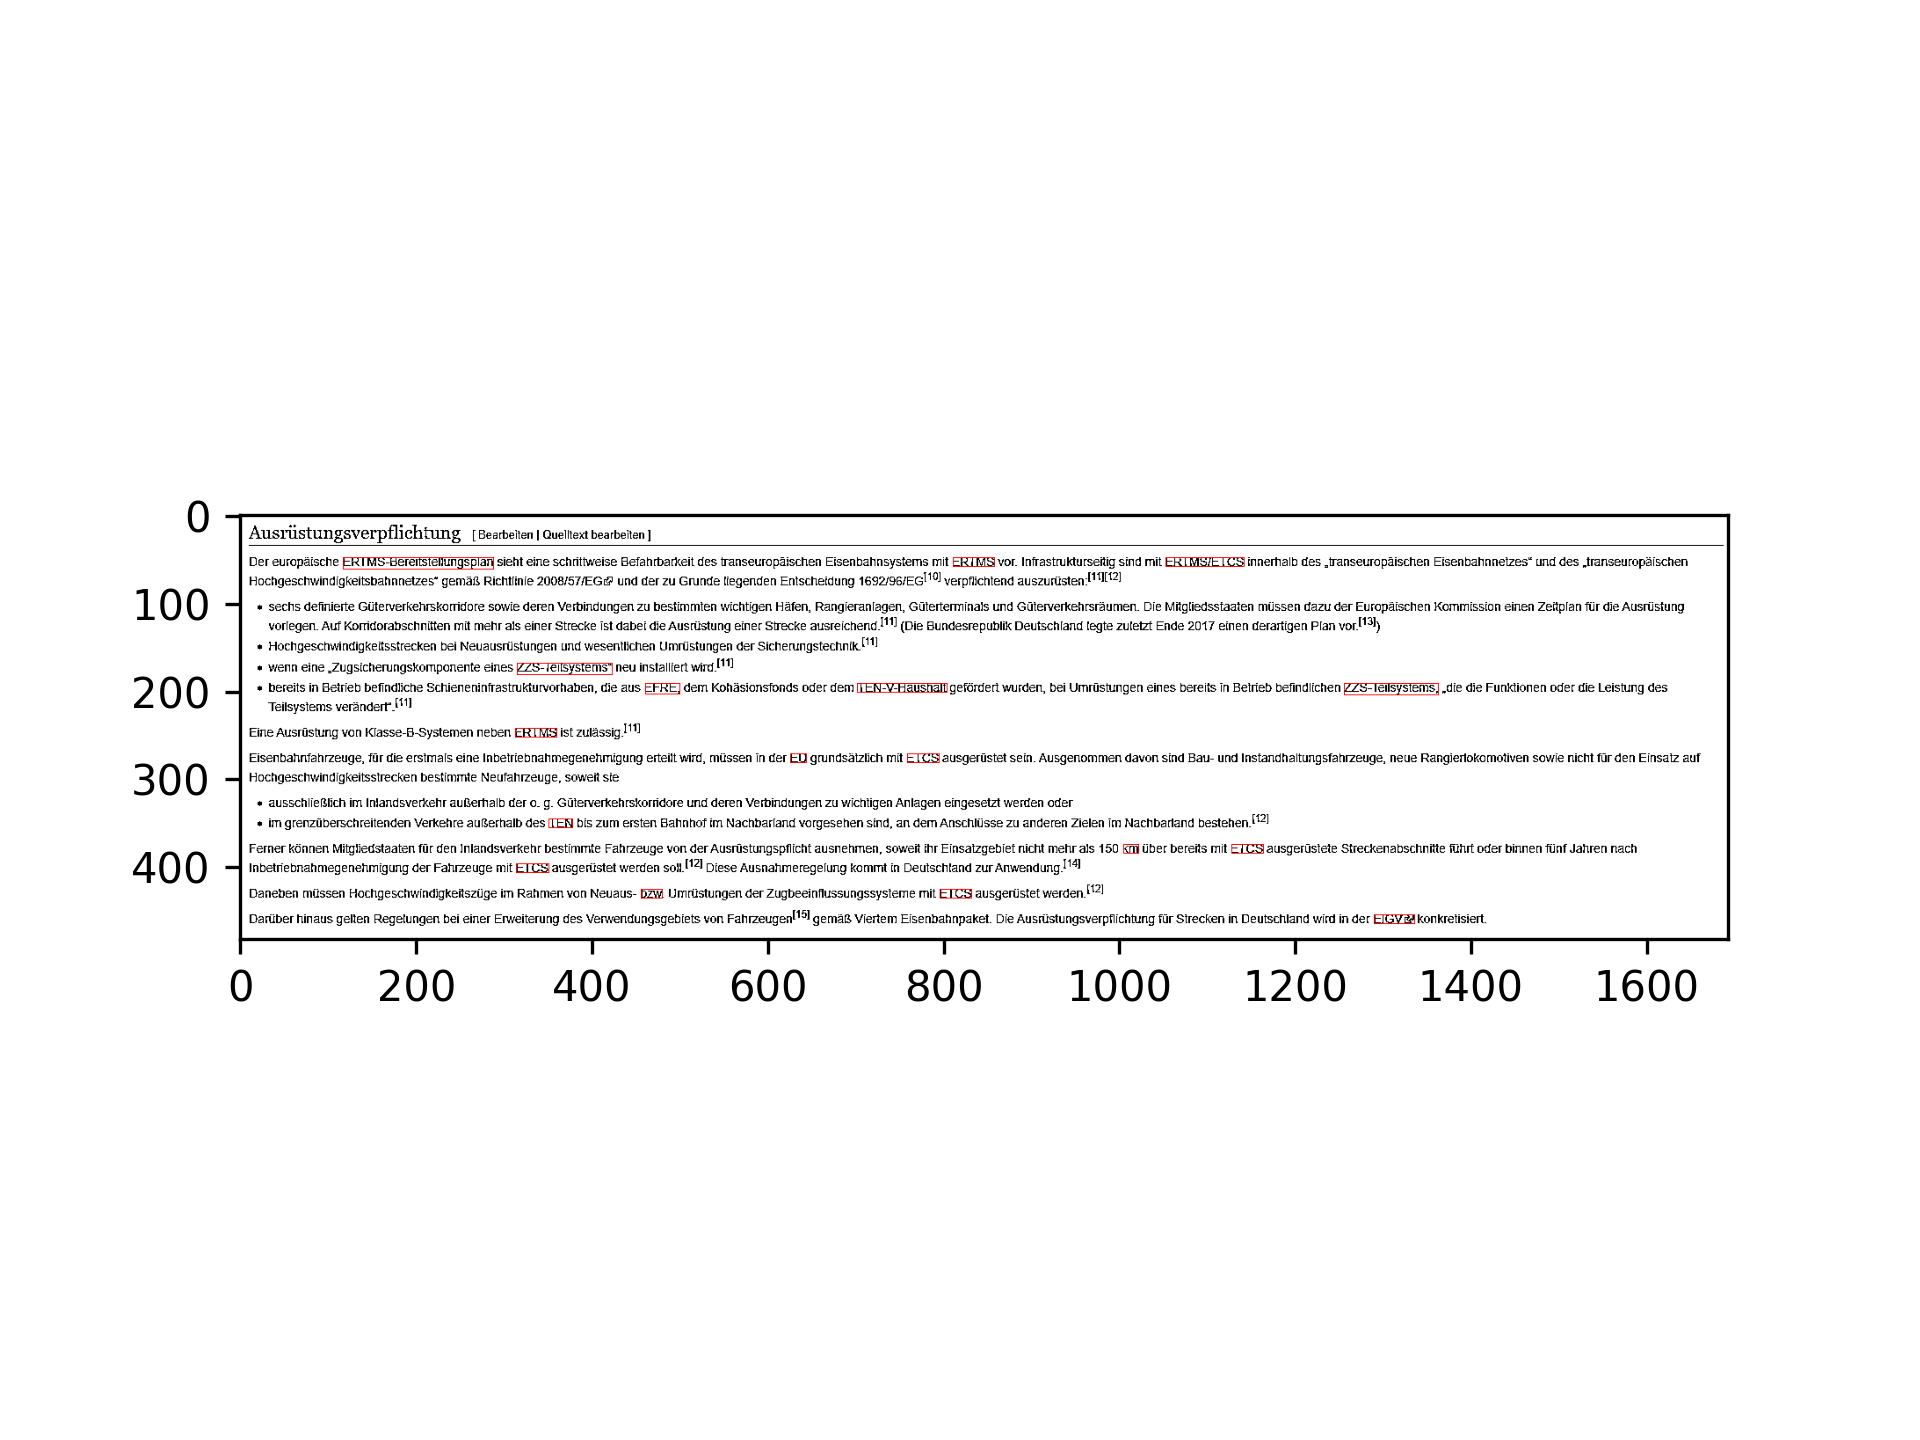
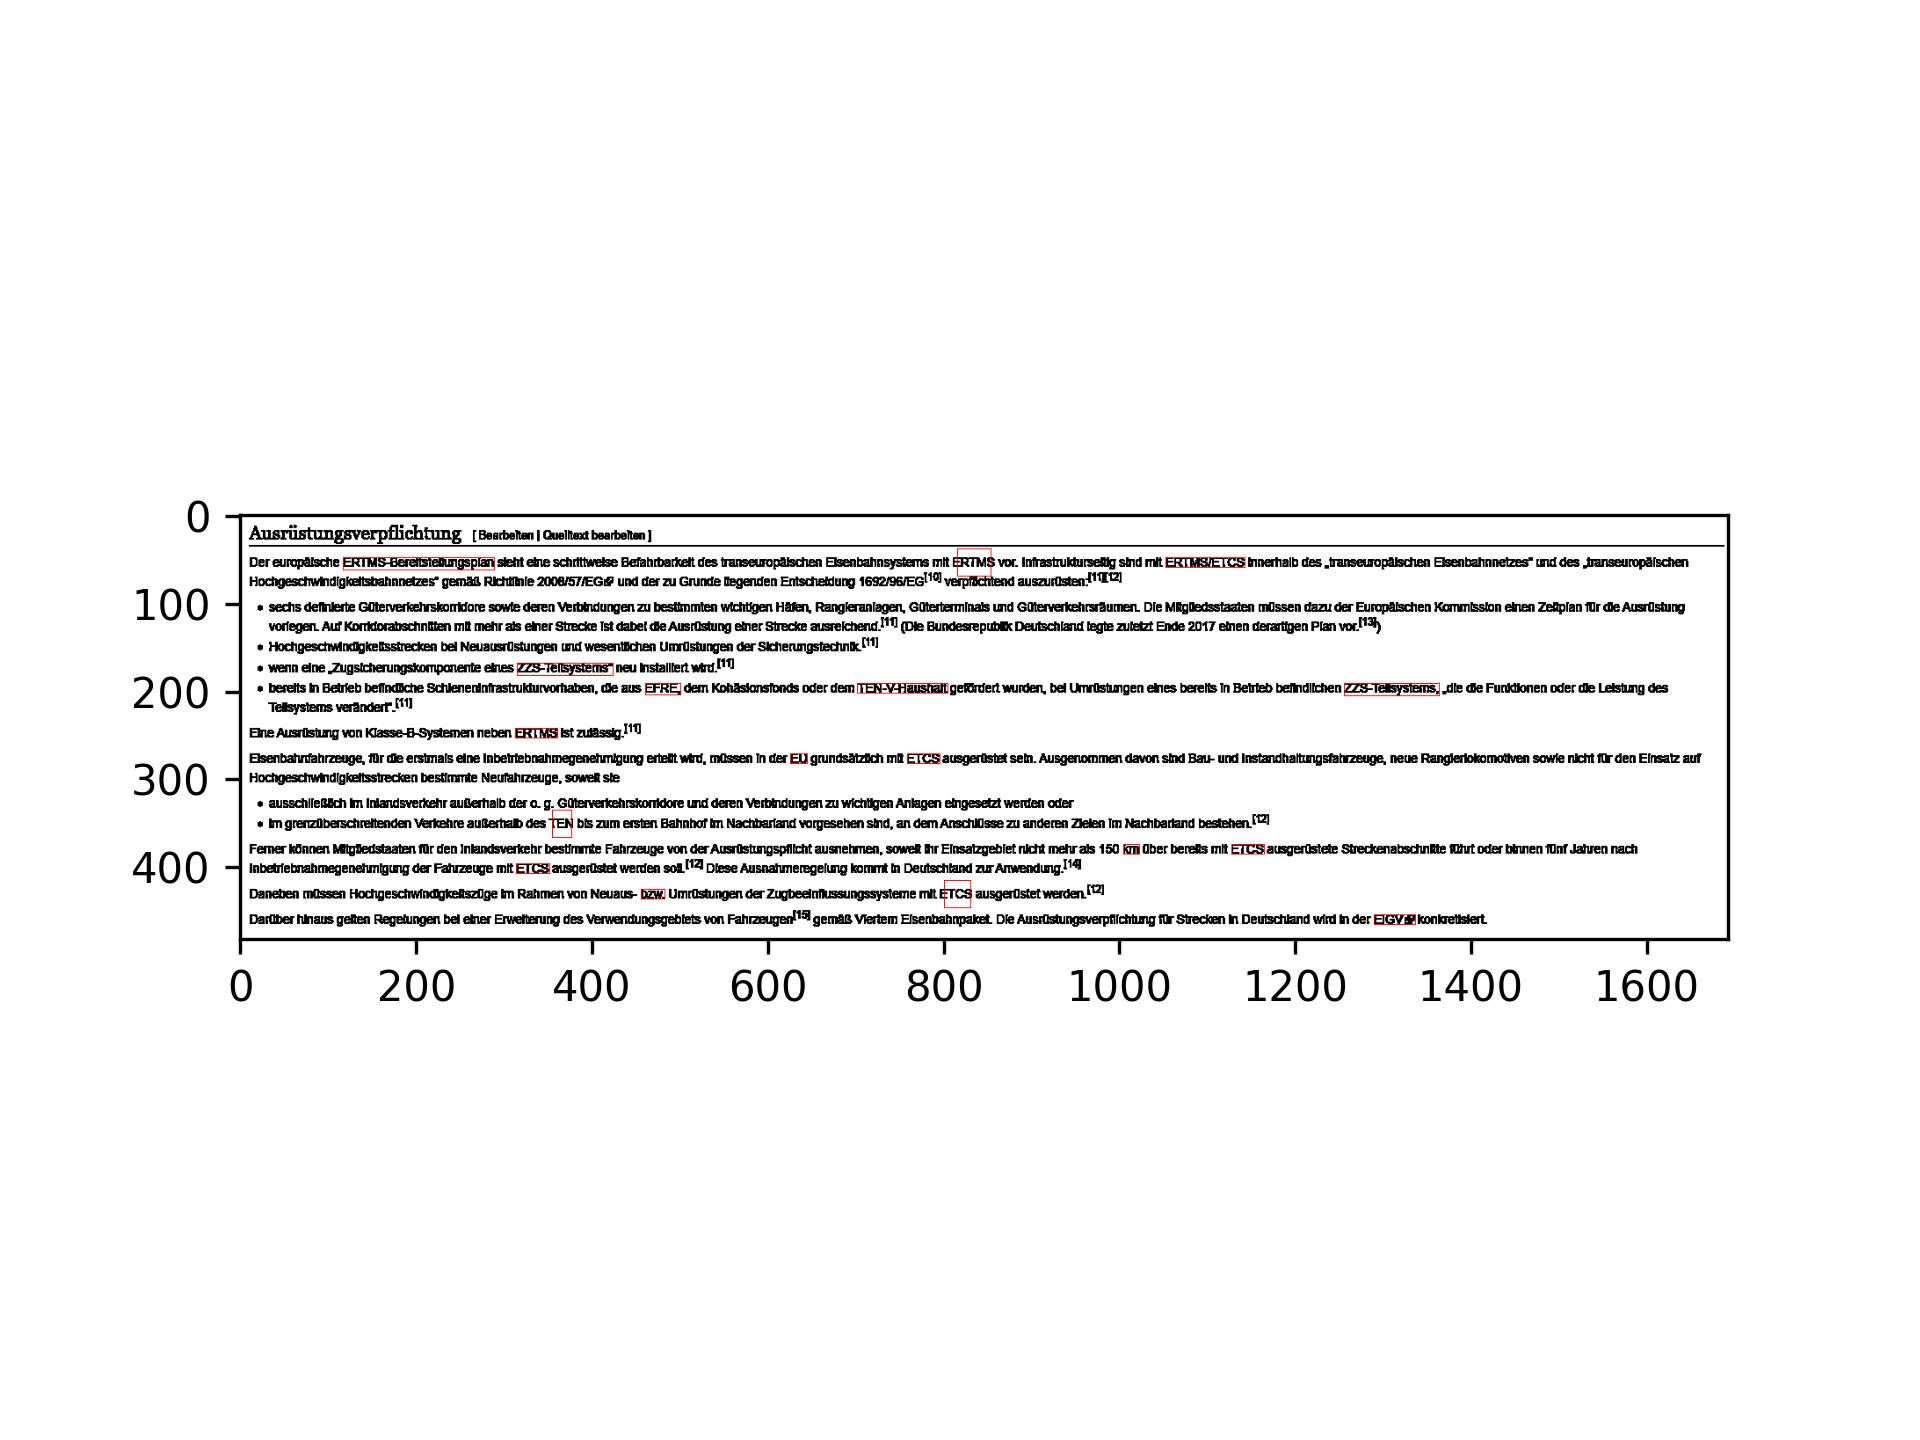
removed thinning functionality

Changed region(s): [[0.125, 0.3438, 0.875, 0.6562], [0.75, 0.4688, 0.875, 0.5312], [0.7188, 0.625, 0.75, 0.6562]]

diff --git a/src/PreProcessing.py b/src/PreProcessing.py
@@ -1,5 +1,6 @@
 import cv2
 from deskew import deskew
+import numpy
 def enhance(image_path, edited_image_path):
 
     # Opens the image and save it to the variable
@@ -20,5 +21,10 @@ def enhance(image_path, edited_image_path):
     img_edit = deskew(img_edit)
     cv2.imwrite("img/picture-deskewed.png", img_edit)
 
+#    kernel = numpy.ones((2,2),numpy.uint8) Not included as thinning is not a one-for-all solution. It needs to be more flexible based on text size.
+#    img_edit = cv2.erode(img_edit,kernel,iterations = 1)
+#    cv2.imwrite("img/picture-thinned.png", img_edit)
+
+    cv2.imwrite(edited_image_path, img_edit)
     # Returns edited image
     return img_edit
